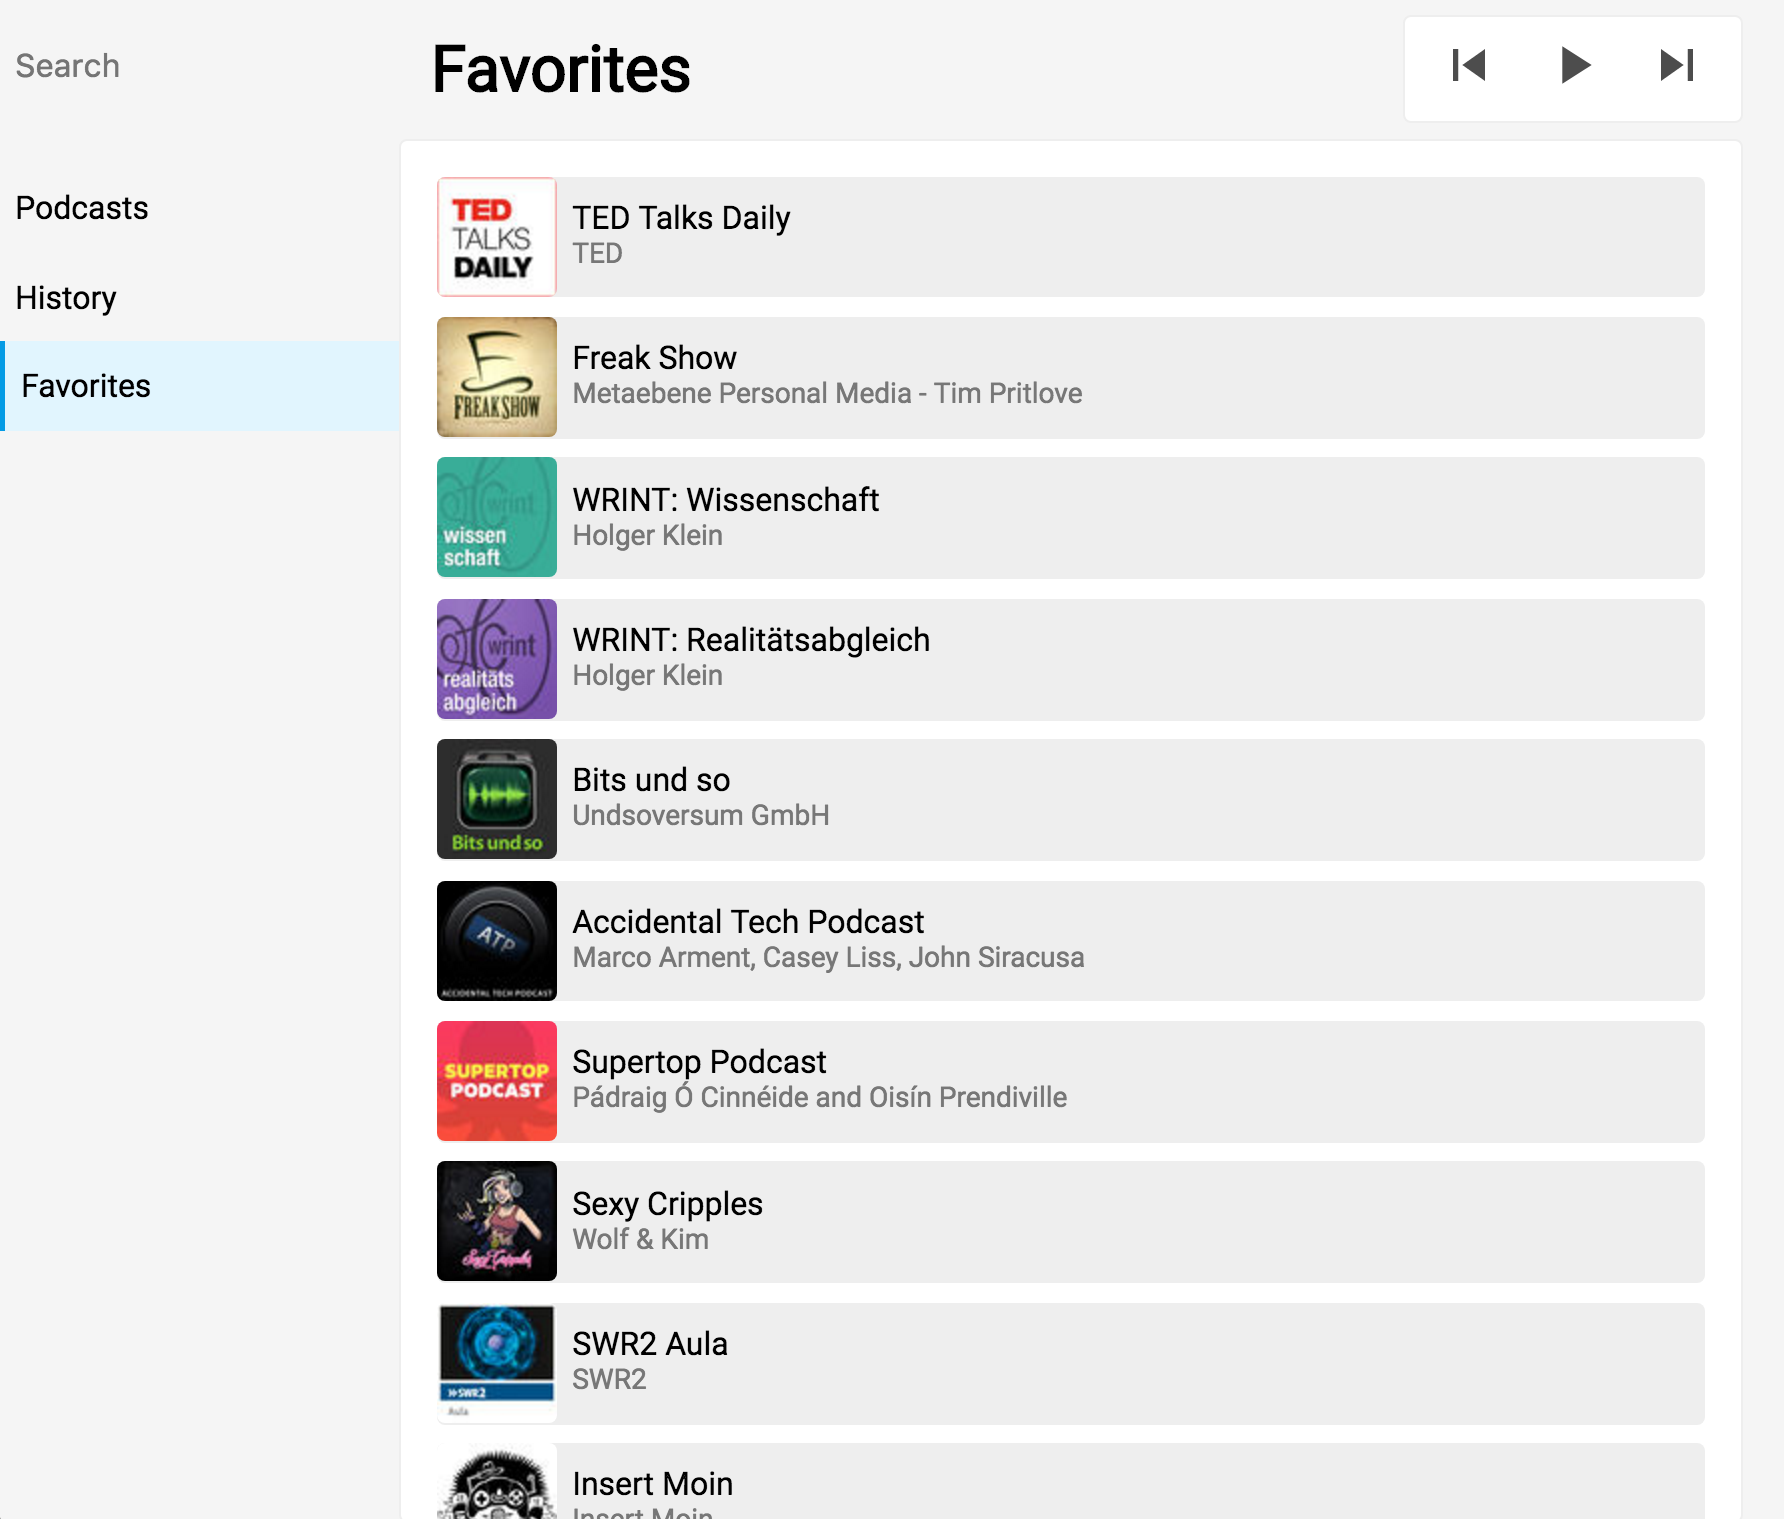
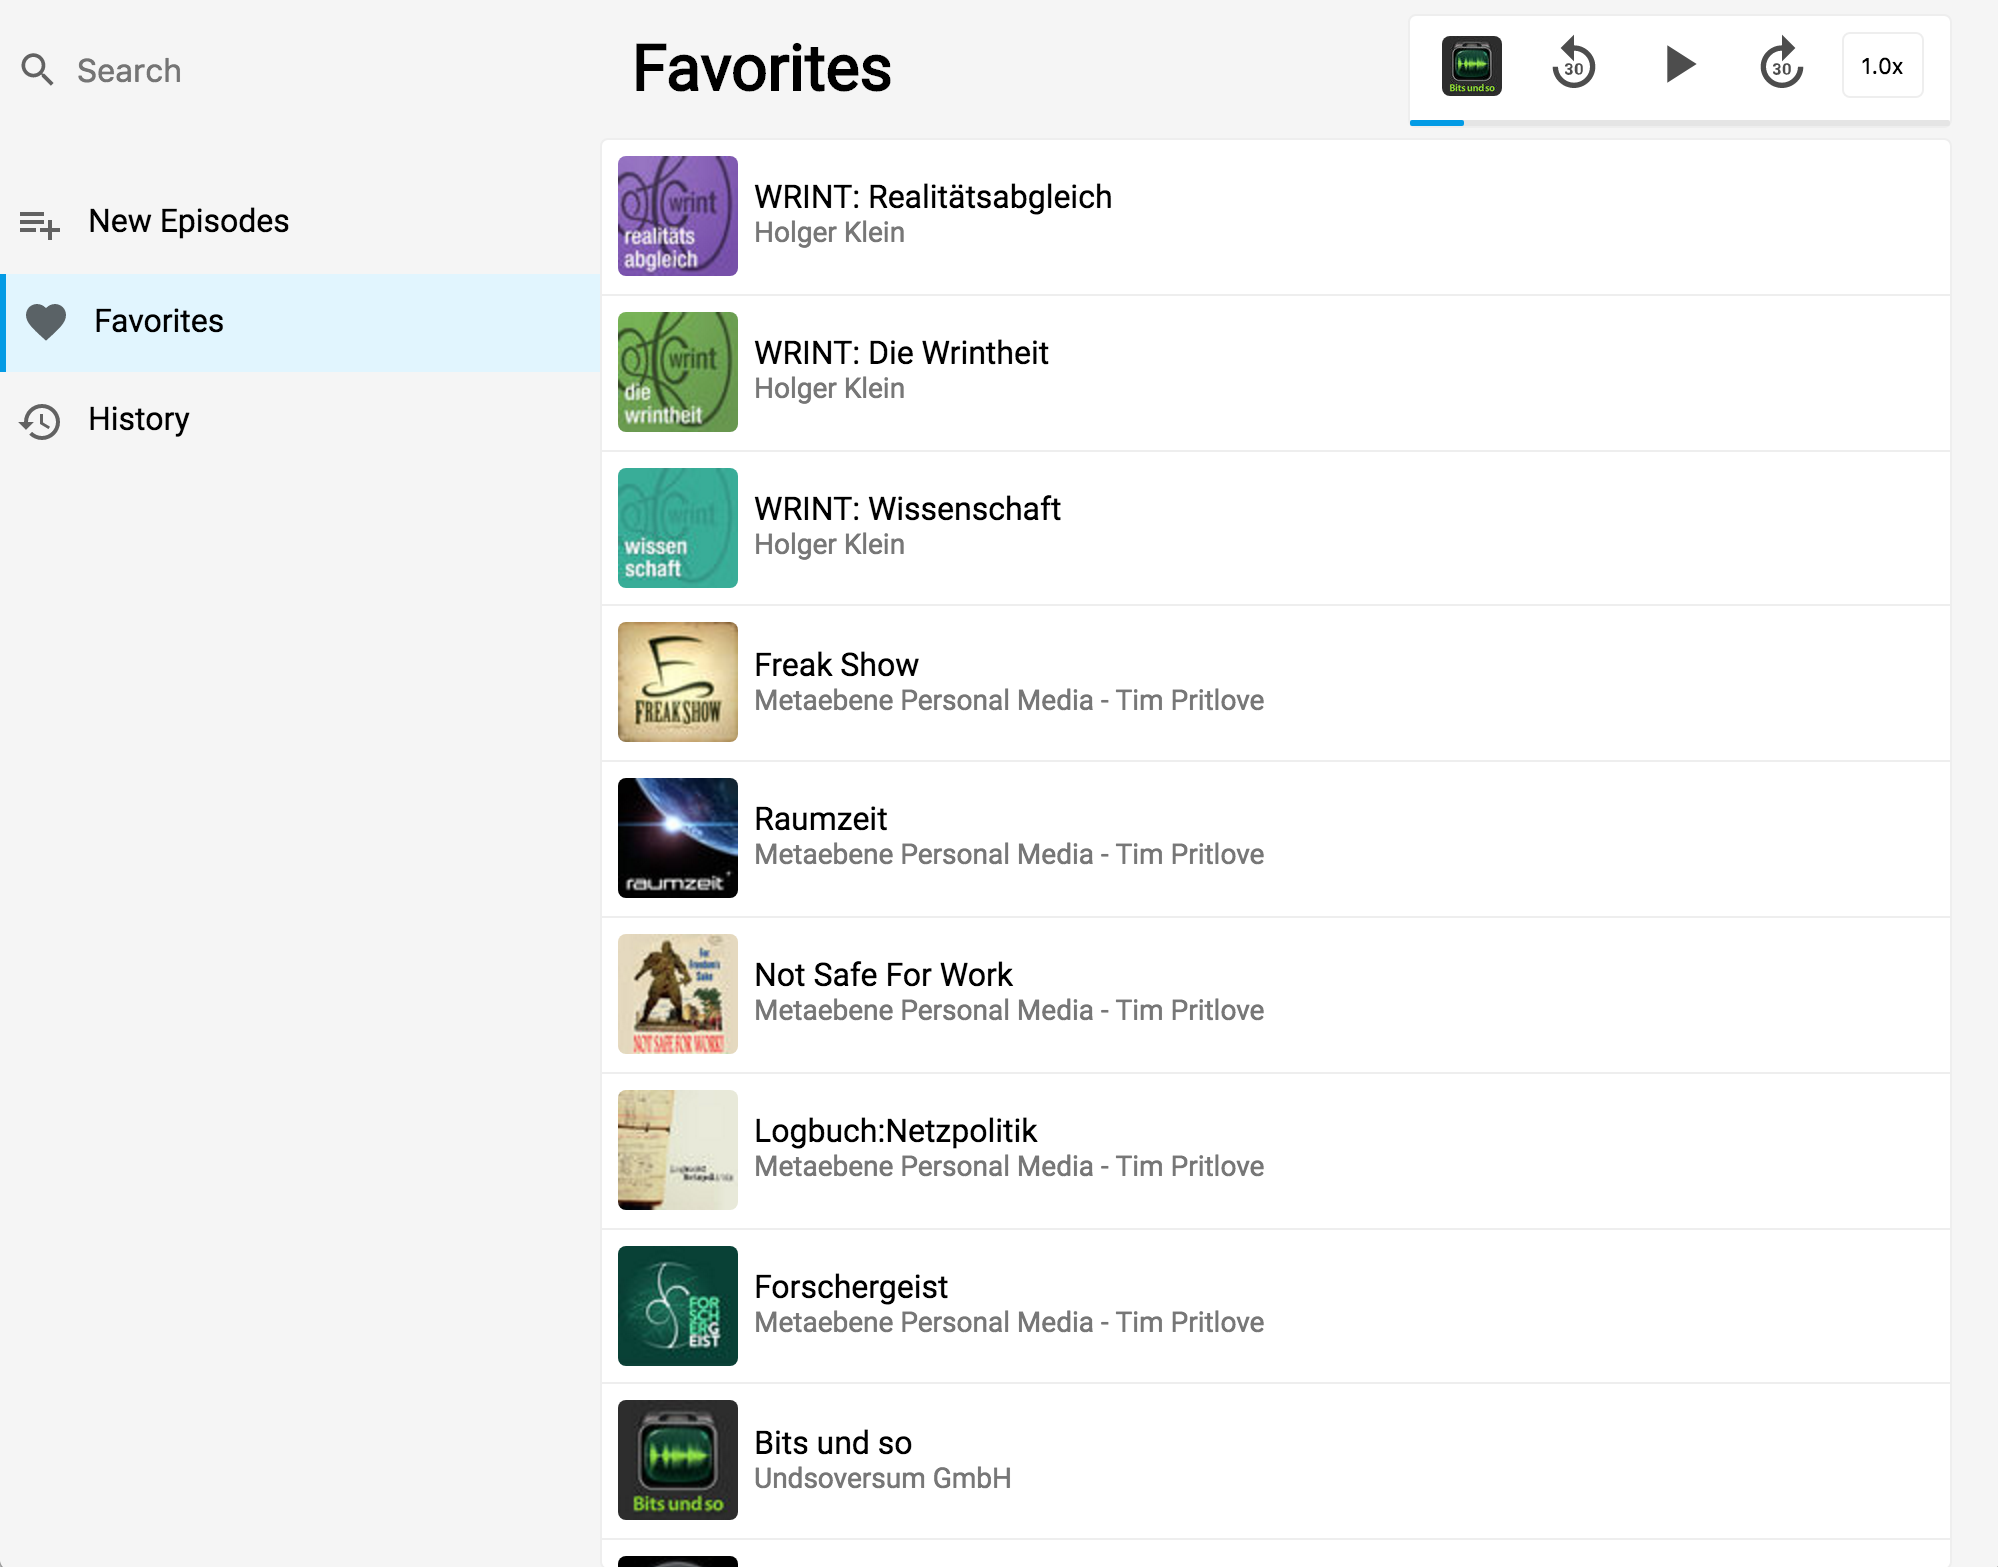
Readme Update
# update text
# update screenshots

diff --git a/README.md b/README.md
@@ -1,10 +1,14 @@
-# Poddycast [BETA] 
+# Poddycast [BETA]
 
 A Podcast app made with Electron because I love Podcasts.
 
 Search for any Podcasts you like (using iTunes) and see if you already marked this Podcasts as favorite.
 
 ![screenshot_1](img/poddycast_search.png)
+
+Find all episodes in the "New Episodes" menu item.
+
+![screenshot_1](img/poddycast_new_episodes.png)
 
 See all your favorite Podcasts in one place.
 
